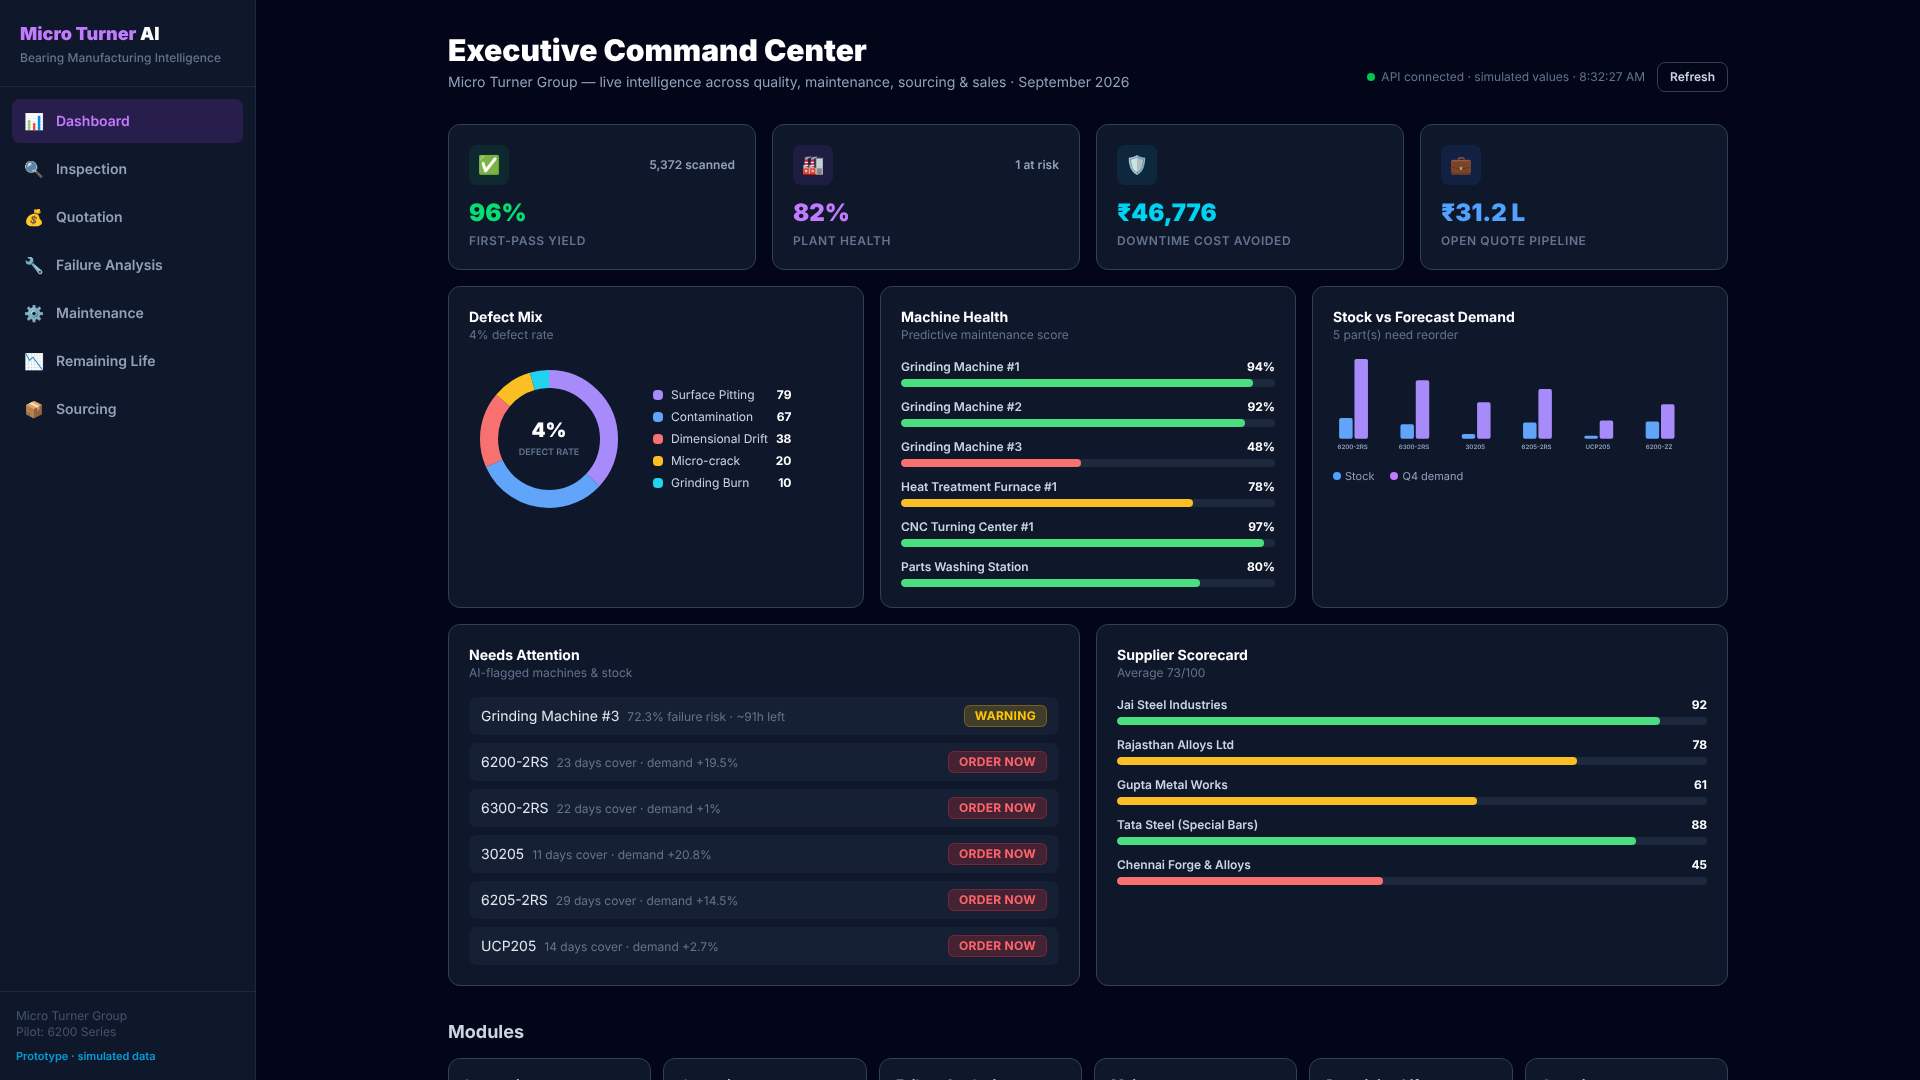
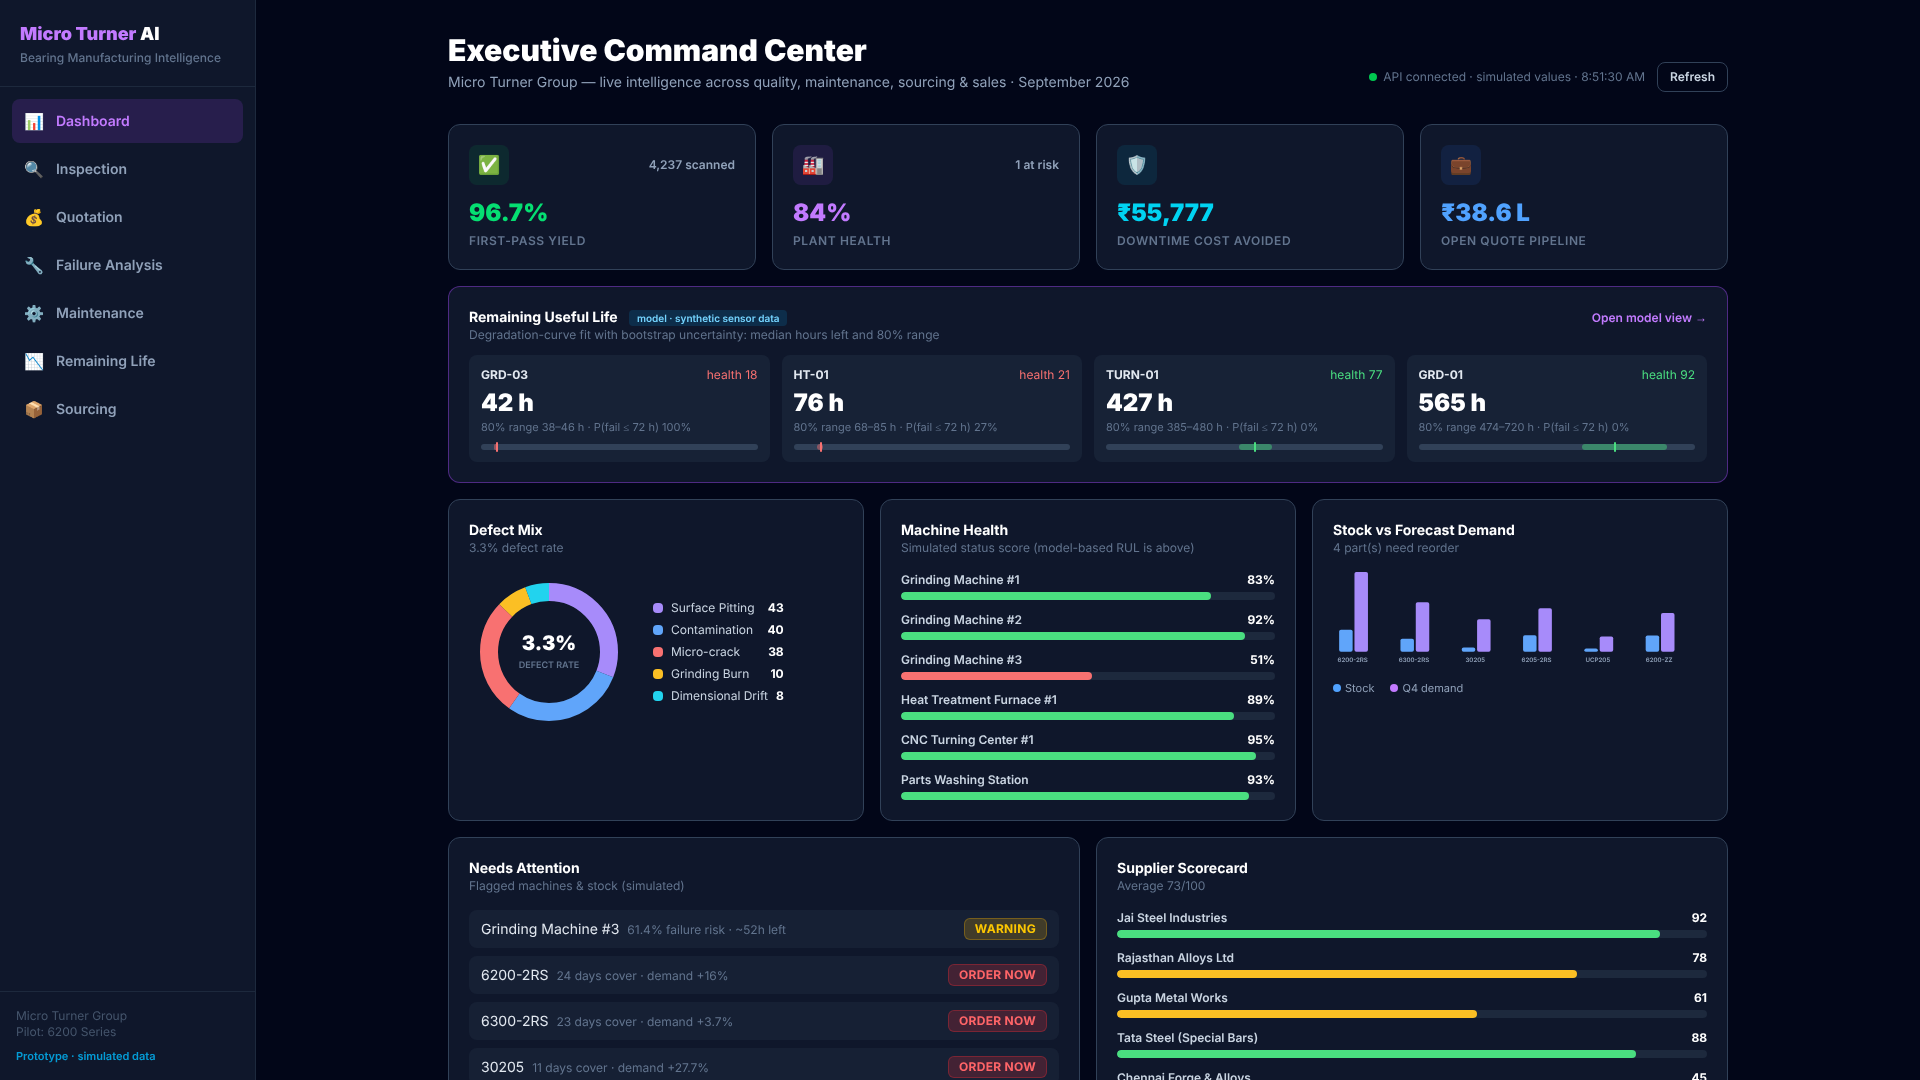
feat: remaining-life panel on the command center; label simulated panels
Claude-Session: https://claude.ai/code/session_018tYS3BKkdjBLB74vx88SZW

diff --git a/frontend/src/app/page.tsx b/frontend/src/app/page.tsx
@@ -8,6 +8,10 @@ import DemoBanner from "@/components/DemoBanner";
 import { Donut, HBar, StockBars } from "@/components/Charts";
 import { apiGet } from "@/lib/api";
 import { demoOverview, type Overview } from "@/lib/demo-data";
+import rulDemo from "@/lib/rul-demo.json";
+
+type RulRow = { asset_id: string; name: string; health_score: number; failure_prob_within_horizon: number;
+  horizon_hours: number; rul_hours_p10: number; rul_hours_p50: number; rul_hours_p90: number };
 
 const modules = [
   { href: "/inspection", label: "Inspection", desc: "AI visual defect scan" },
@@ -26,8 +30,11 @@ export default function Dashboard() {
   const [demo, setDemo] = useState(true);
   const [data, setData] = useState<Overview>(demoOverview);
   const [updated, setUpdated] = useState<Date | null>(null);
+  const [rul, setRul] = useState<RulRow[]>(rulDemo.assets as RulRow[]);
 
   const load = useCallback(async () => {
+    const rr = await apiGet<RulRow[]>("/api/rul/assets");
+    if (!rr.demo && rr.data) setRul(rr.data);
     const r = await apiGet<Overview>("/api/dashboard/overview");
     if (!r.demo && r.data) { setData(r.data); setDemo(false); } else setDemo(true);
     setUpdated(new Date());
@@ -71,6 +78,37 @@ export default function Dashboard() {
         <StatCard icon="💼" value={inr(k.open_quote_value)} label="Open Quote Pipeline" color="blue" />
       </div>
 
+
+      <section className="mt-4 rounded-xl border border-purple-500/40 bg-slate-900 p-5">
+        <div className="mb-3 flex flex-wrap items-baseline justify-between gap-2">
+          <div>
+            <h3 className="text-sm font-bold text-white">Remaining Useful Life <span className="ml-2 rounded bg-sky-500/15 px-2 py-0.5 text-[10px] font-semibold text-sky-300">model · synthetic sensor data</span></h3>
+            <p className="text-xs text-slate-500">Degradation-curve fit with bootstrap uncertainty: median hours left and 80% range</p>
+          </div>
+          <Link href="/remaining-life" className="text-xs font-semibold text-purple-400 hover:underline">Open model view →</Link>
+        </div>
+        <div className="grid gap-3 sm:grid-cols-2 lg:grid-cols-4">
+          {[...rul].sort((a, b) => a.rul_hours_p50 - b.rul_hours_p50).map((a) => {
+            const c = a.health_score >= 70 ? "#4ade80" : a.health_score >= 40 ? "#fbbf24" : "#f87171";
+            const max = 800, lo = Math.min(a.rul_hours_p10, max), hi = Math.min(a.rul_hours_p90, max), mid = Math.min(a.rul_hours_p50, max);
+            return (
+              <Link key={a.asset_id} href="/remaining-life" className="rounded-lg bg-slate-800/60 p-3 transition-colors hover:bg-slate-800">
+                <div className="flex items-center justify-between text-xs">
+                  <span className="font-bold text-slate-200">{a.asset_id}</span>
+                  <span style={{ color: c }}>health {a.health_score}</span>
+                </div>
+                <p className="mt-1 text-2xl font-black text-white">{Math.round(a.rul_hours_p50)} h</p>
+                <p className="text-[11px] text-slate-500">80% range {Math.round(a.rul_hours_p10)}–{Math.round(a.rul_hours_p90)} h · P(fail ≤ {a.horizon_hours} h) {Math.round(a.failure_prob_within_horizon * 100)}%</p>
+                <div className="relative mt-2 h-1.5 rounded bg-slate-700">
+                  <div className="absolute h-1.5 rounded" style={{ left: `${(lo / max) * 100}%`, width: `${Math.max(1, ((hi - lo) / max) * 100)}%`, background: c, opacity: 0.45 }} />
+                  <div className="absolute -top-0.5 h-2.5 w-0.5 rounded" style={{ left: `${(mid / max) * 100}%`, background: c }} />
+                </div>
+              </Link>
+            );
+          })}
+        </div>
+      </section>
+
       <div className="mt-4 grid gap-4 lg:grid-cols-3">
         <Panel title="Defect Mix" sub={`${k.defect_rate_pct}% defect rate`}>
           <Donut
@@ -79,7 +117,7 @@ export default function Dashboard() {
             centerLabel="defect rate"
           />
         </Panel>
-        <Panel title="Machine Health" sub="Predictive maintenance score">
+        <Panel title="Machine Health" sub="Simulated status score (model-based RUL is above)">
           <HBar rows={data.machines.map((m) => ({ label: m.name, value: m.health_score, color: healthColor(m.health_score), suffix: "%" }))} />
         </Panel>
         <Panel title="Stock vs Forecast Demand" sub={`${k.reorders_needed} part(s) need reorder`}>
@@ -92,7 +130,7 @@ export default function Dashboard() {
       </div>
 
       <div className="mt-4 grid gap-4 lg:grid-cols-2">
-        <Panel title="Needs Attention" sub="AI-flagged machines & stock">
+        <Panel title="Needs Attention" sub="Flagged machines & stock (simulated)">
           <ul className="space-y-2">
             {risky.length === 0 && <li className="text-sm text-slate-500">All machines healthy.</li>}
             {risky.map((m) => (
